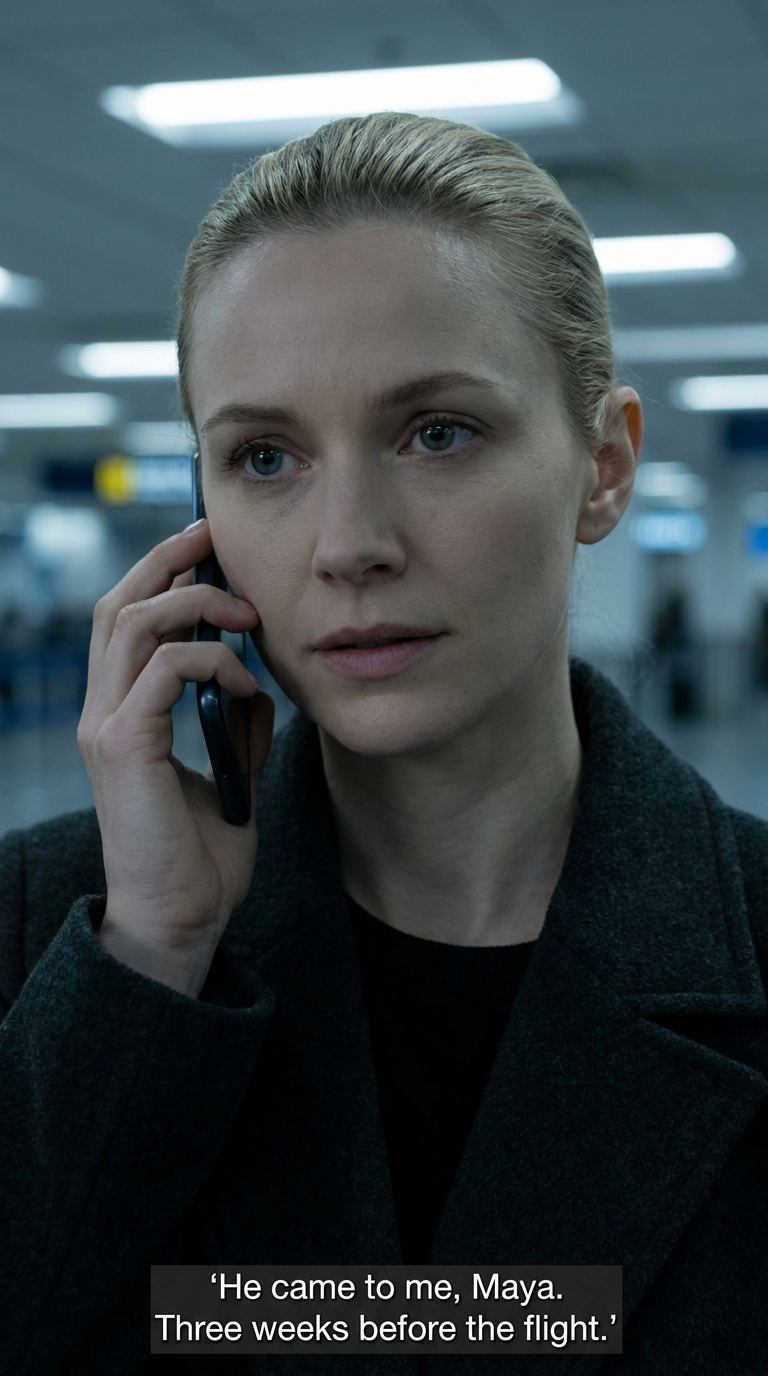
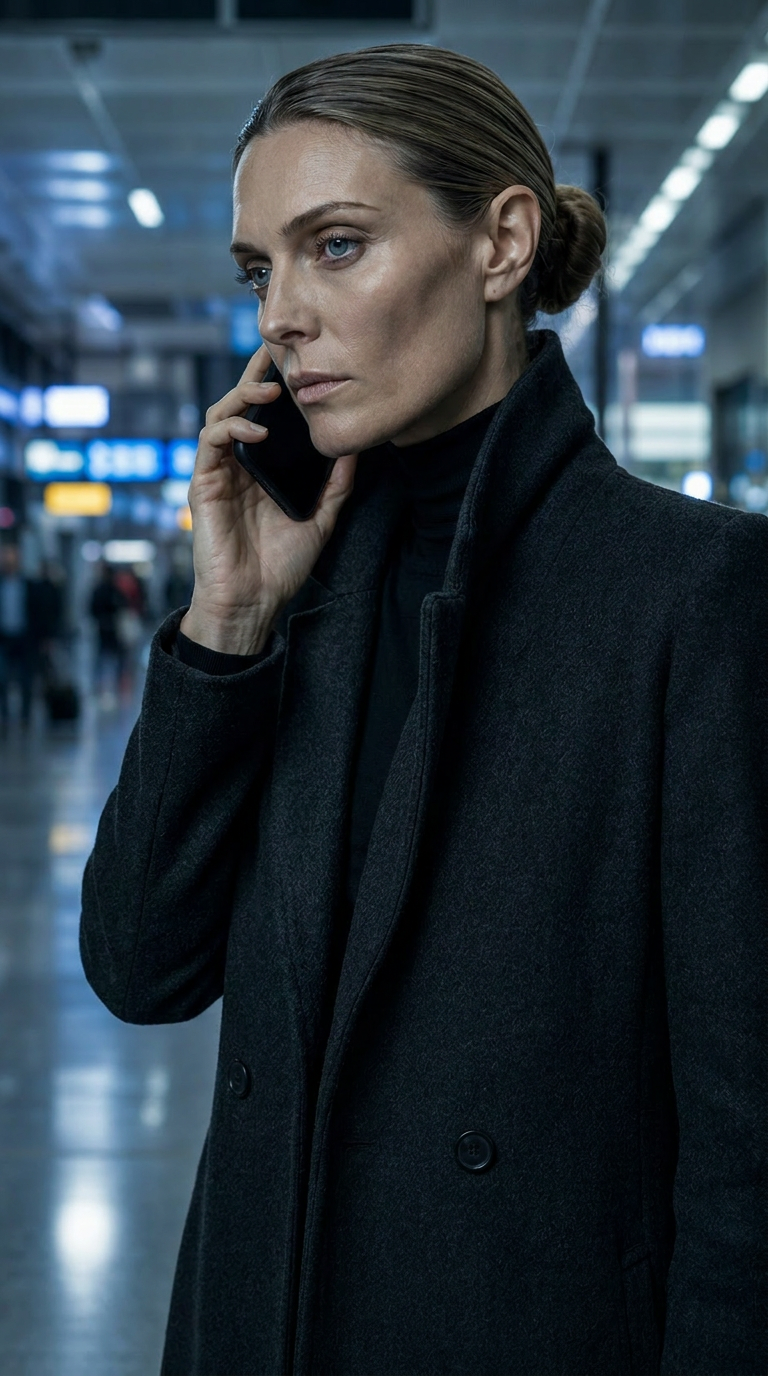
QC fixes on build 011 -> 012 — asset/reference corrections
Fixes from the tlc-qc full pass on build 011 (two BLOCKING, two
IMPORTANT, one policy resolution):

- logs_1/2/3 (Call branch): were showing Board's financial ledger
  content via a leftover cloud_records.png reference. New frame
  call_logs_sync.png shows actual login/device/sync activity
  matching this branch's own intel.
- stay_teo_2: teo_confront.png had drifted off the Maya identity
  anchor (wrong face). Regenerated against 00_hero.png.
- stay_letter_2: was using hidden_daniel.png (a solo Daniel portrait
  with a mismatched leftover "THE CROSSING" title card) for a beat
  that explicitly describes a two-person photo. New dedicated frame
  stay_daniel_nadia_photo.png. end_hidden keeps hidden_daniel.png
  since that beat doesn't describe a second person.
- board_4: board_messages.png showed an unrelated live-text-thread
  UI contradicting the beat's actual financial-ledger discovery. New
  frame board_ledger_screen.png shows the wire transfers, shell
  companies, and Nadia's signature the text describes.
- board_3 (board_seated.png): regenerated without direct-to-camera
  gaze, resolving a style-bible ambiguity flagged by QC. Documented
  in tlc-qc.md going forward: 00_hero.png and 03_gate_choice.png are
  the two accepted trunk-level exceptions; nothing else should have
  direct gaze.

build 011 -> 012

diff --git a/index.html b/index.html
@@ -158,7 +158,7 @@ body{display:flex;align-items:center;justify-content:center;font-family:var(--mo
   <div class="timerbar"><div class="timerfill" id="timerfill"></div></div>
   <div class="hud">
     <div class="slug" id="slug">INT. JFK T4 · GATE B22 · 11:47 PM</div>
-    <div class="meta" id="meta" style="opacity:0.35">build 011</div>
+    <div class="meta" id="meta" style="opacity:0.35">build 012</div>
   </div>
   <div class="mayas" id="mayas"></div>
   <div class="echo" id="echo"></div>
@@ -339,7 +339,7 @@ const STORY = {
   board_3:{ img:'board_seated.png', slug:'INT. CABIN · DL516 · TAXIING',
     line:'Window seat. Fourteen A. He always took the window.',
     action:'Her hand finds Daniel’s phone in her bag, out of habit, and finds a flash drive wedged against it instead — one she has never seen.', next:'board_4'},
-  board_4:{ img:'board_messages.png', slug:'INT. CABIN · 30,000 FEET',
+  board_4:{ img:'board_ledger_screen.png', slug:'INT. CABIN · 30,000 FEET',
     line:'No signal up here. The drive doesn’t need one.',
     action:'A folder, no name, just a date. Wire transfers. Shell companies that mean nothing and everything. One line item, dated three weeks from tonight — London. Authorizing signature: N. Korolova.',
     next:'board_5'},
@@ -408,7 +408,7 @@ const STORY = {
   stay_letter_1:{ img:'cloud_letter.png', slug:'THE LETTER',
     line:'His handwriting. No envelope, no stamp — he never sent it. “M —” and then six months of silence where a name should be.',
     action:'“If you’re reading this, I ran out of time before I ran out of nerve. I need you to know I tried to fix what I started. I need you to know it wasn’t her fault.” The rest is a single dash, ink dragged where his hand gave out.', next:'stay_letter_2'},
-  stay_letter_2:{ img:'hidden_daniel.png', slug:'THE PHOTOGRAPH',
+  stay_letter_2:{ img:'stay_daniel_nadia_photo.png', slug:'THE PHOTOGRAPH',
     line:'Folded behind the letter — a photo. Daniel laughing, off-guard, mid-sentence. Nadia beside him, not posed, just caught.',
     action:'Not a work dinner. Not a cover story. Two people who trusted each other enough to look like that on camera. Whatever he was protecting her from, he wasn’t protecting himself from her.', next:'stay_letter_3'},
   stay_letter_3:{ img:'maya_eyes.png', slug:'WHAT SHE UNDERSTANDS, WHAT SHE DOESN’T',
@@ -439,13 +439,13 @@ const STORY = {
   call_2:{ img:'callback_timestamp.png', slug:'VOICEMAIL · TIMESTAMP IMPOSSIBLE',
     line:'She opens the file properties. Habit. Procedure. A timestamp sits under the recording like a dare.',
     action:'Recorded four days ago. He’s been gone six months. Clock error, she rules out first — servers don’t drift four days. Corrupted metadata, second — rare, but she’s seen it. That leaves the one she can’t say yet.', next:'logs_1'},
-  logs_1:{ img:'cloud_records.png', slug:'ACCOUNT ACTIVITY',
+  logs_1:{ img:'call_logs_sync.png', slug:'ACCOUNT ACTIVITY',
     line:'She still has his login. Never deleted it. Never asked herself why.',
     action:'“Last active: two days ago.” Not six months. Two days. A device she doesn’t recognize. A city she doesn’t recognize.', next:'logs_2'},
-  logs_2:{ img:'cloud_records.png', slug:'SYNC HISTORY',
+  logs_2:{ img:'call_logs_sync.png', slug:'SYNC HISTORY',
     line:'Before she can spiral, she finds the boring explanation sitting right there.',
     action:'A sync icon, quietly spinning, dated back six months and never stopped. His cloud backup — he never turned it off, and neither did she. That explains the folder breathing in the background. It doesn’t explain a stranger’s hand touching it two days ago.', next:'logs_3'},
-  logs_3:{ img:'cloud_records.png', slug:'WHAT MOVED',
+  logs_3:{ img:'call_logs_sync.png', slug:'WHAT MOVED',
     line:'One folder, renamed. One file, opened and closed in under a minute.',
     action:'No download. No trace of what was read — only that it was. Nadia’s name sits two folders over. Untouched. Or untouched that she can prove. She has a when. She has a how. She does not have a who, or a why.', next:'final_call_choice'},
 